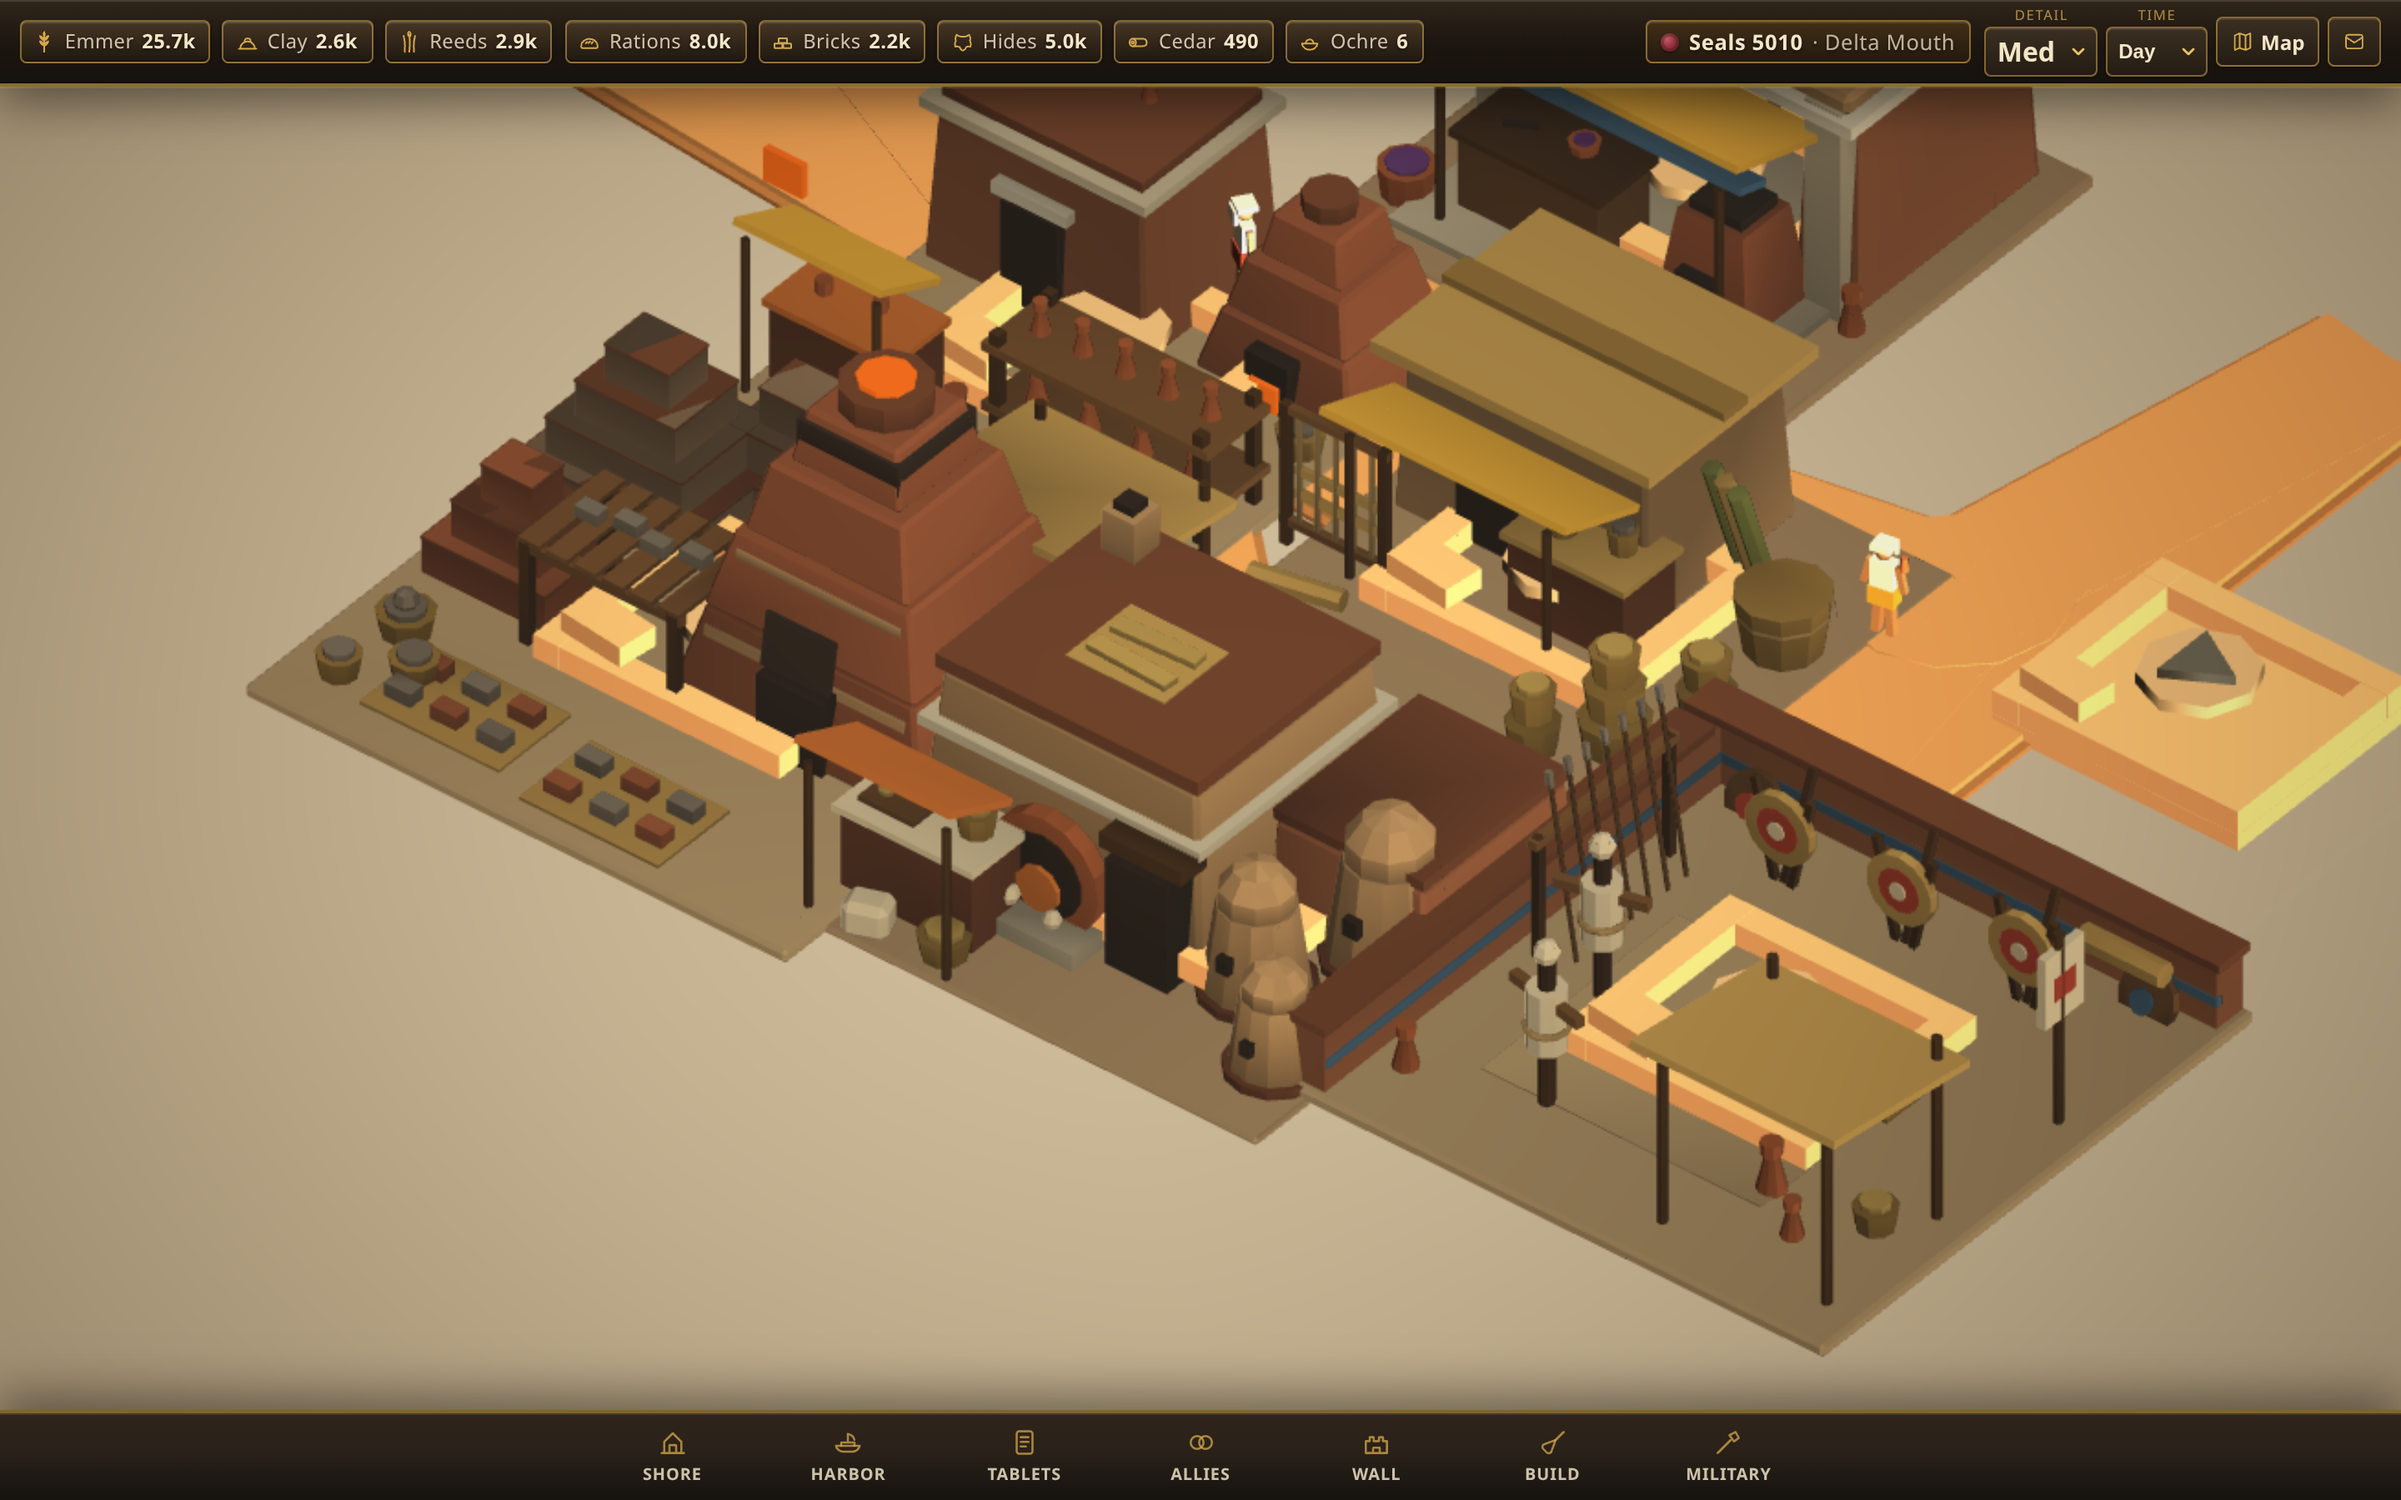
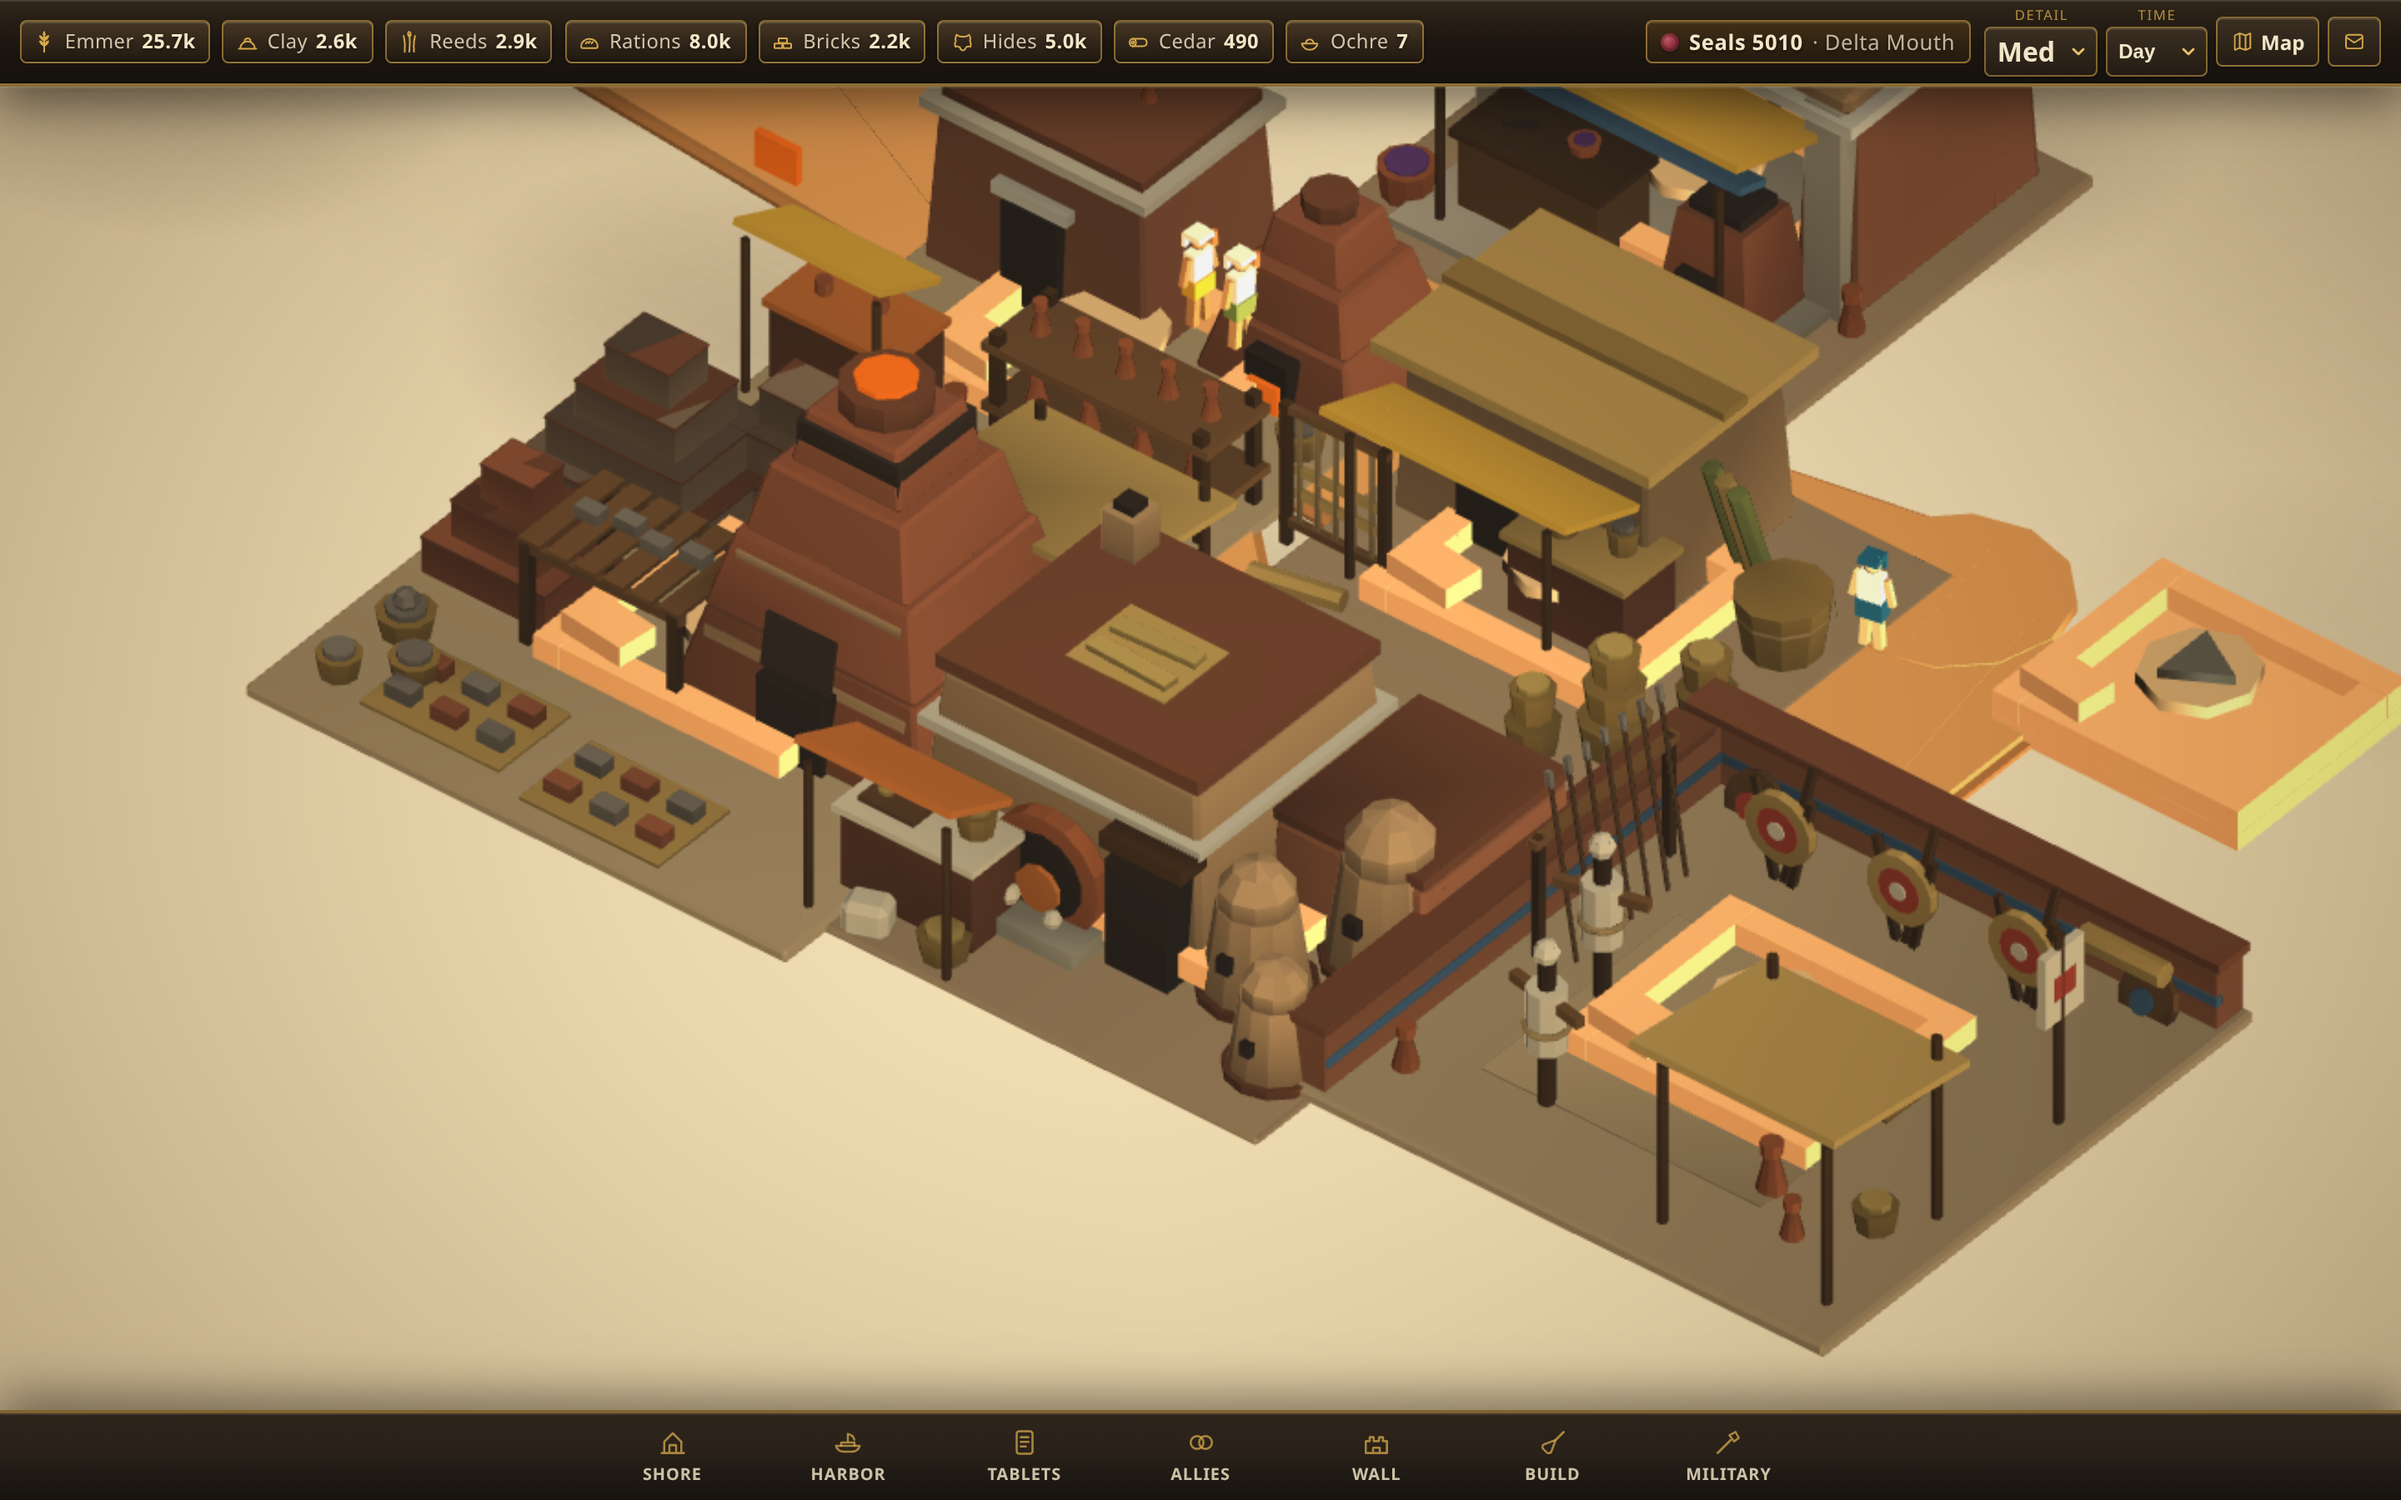
fix(overhaul-r8): painted AO carpet + occupancy-gated roads + inspect scrim
World-space AO carpet paints soft contact shading under every building/pad
and packed-earth wear at hubs, repainted on building changes (darken
composite so overlaps never stack). Road spurs to EMPTY pads removed and
roads rebuild on occupancy change (the stray orange stubs). Mudflat/sandbar
lobes fully deleted; bank strip retinted to sand family; day sun lower for
readable shadows; inspect modal gets a scrim + closes the panel beneath;
panel fold fade 64px.

diff --git a/apps/client/src/render/scene.ts b/apps/client/src/render/scene.ts
@@ -550,6 +550,92 @@ export class SettlementView {
     }
   }
 
+  private aoCarpet: Mesh | null = null;
+  private aoCarpetTex: DynamicTexture | null = null;
+
+  /**
+   * Painted ground-contact shading — the "baked AO" the whole style needs.
+   * A single non-tiled world-space texture over the settlement field gets a
+   * soft dark ellipse under every building/pad/palm + packed-earth wear at
+   * hubs. Repainted whenever the building set changes.
+   */
+  private buildAOCarpet() {
+    const W = 46, H = 38, CX = -2.5, CZ = 3;
+    if (this.aoCarpet?.isDisposed()) {
+      this.aoCarpet = null;
+      this.aoCarpetTex = null;
+    }
+    if (!this.aoCarpet) {
+      this.aoCarpet = MeshBuilder.CreateGround(
+        "aoCarpet",
+        { width: W, height: H },
+        this.scene
+      );
+      this.aoCarpet.position.set(CX, 0.02, CZ);
+      this.aoCarpet.isPickable = false;
+      const tex = new DynamicTexture("aoCarpetTex", 1024, this.scene, true);
+      tex.hasAlpha = true;
+      const mat = new StandardMaterial("aoCarpetMat", this.scene);
+      mat.diffuseTexture = tex;
+      mat.useAlphaFromDiffuseTexture = true;
+      mat.specularColor = Color3.Black();
+      mat.emissiveColor = Color3.Black();
+      mat.backFaceCulling = true;
+      this.aoCarpet.material = mat;
+      this.aoCarpet.parent = this.envRoot ?? this.root;
+      this.aoCarpetTex = tex;
+    }
+    const tex = this.aoCarpetTex;
+    if (!tex) return;
+    const ctx = tex.getContext() as CanvasRenderingContext2D;
+    const S = 1024;
+    ctx.clearRect(0, 0, S, S);
+    const toU = (wx: number) => ((wx - (CX - W / 2)) / W) * S;
+    const toV = (wz: number) => S - ((wz - (CZ - H / 2)) / H) * S;
+    ctx.globalCompositeOperation = "darken";
+    const blob = (wx: number, wz: number, r: number, a: number) => {
+      const g = ctx.createRadialGradient(
+        toU(wx), toV(wz), 0, toU(wx), toV(wz), (r / W) * S
+      );
+      g.addColorStop(0, `rgba(52,36,20,${a})`);
+      g.addColorStop(0.7, `rgba(52,36,20,${a * 0.45})`);
+      g.addColorStop(1, "rgba(52,36,20,0)");
+      ctx.fillStyle = g;
+      ctx.beginPath();
+      ctx.arc(toU(wx), toV(wz), (r / W) * S, 0, Math.PI * 2);
+      ctx.fill();
+    };
+    // packed-earth wear around hubs (warm, wide, faint)
+    for (const n0 of PATH_NODES.filter((pn) => pn.id.startsWith("hub-"))) {
+      const n = transformPlotPos(n0.x, n0.z, this.mapArch.layout);
+      const g = ctx.createRadialGradient(
+        toU(n.x), toV(n.z), 0, toU(n.x), toV(n.z), (3.4 / W) * S
+      );
+      g.addColorStop(0, "rgba(122,92,58,0.1)");
+      g.addColorStop(1, "rgba(122,92,58,0)");
+      ctx.fillStyle = g;
+      ctx.beginPath();
+      ctx.arc(toU(n.x), toV(n.z), (3.4 / W) * S, 0, Math.PI * 2);
+      ctx.fill();
+    }
+    // building contact shadows
+    const st = this.lastSettlement;
+    if (st) {
+      for (const b of st.buildings) {
+        if (!b.plotId) continue;
+        const w = this.plotWorldArch(b.plotId);
+        blob(w.x, w.z, 1.8, 0.2);
+      }
+    }
+    // pads (fainter)
+    for (const def of SETTLEMENT_PLOTS) {
+      if (def.starterKind) continue;
+      const posP = this.worldPos(def);
+      blob(posP.x, posP.z, 1.3, 0.05);
+    }
+    tex.update(false);
+  }
+
   /** Palms, scrub, rock outcrops, crescent dunes — the desert is a place,
    *  not a tan void. All opaque, all outside the gameplay rect. */
   private buildNaturalFeatures() {
@@ -931,41 +1017,6 @@ export class SettlementView {
     wet.isPickable = false;
     wet.receiveShadows = true;
 
-    // Mudflat lobes — the shoreline is a river edge, not a ruler
-    const flatMat = new StandardMaterial("mudflatMat", this.scene);
-    flatMat.diffuseColor = hexToColor3("#8A7048");
-    flatMat.specularColor = hexToColor3("#4A7080").scale(0.18);
-    flatMat.specularPower = 24;
-    for (const [lz, lw, ld] of [
-      [9.6, 2.6, 1.4], [2.4, 1.7, 0.9],
-    ] as const) {
-      const lobe = MeshBuilder.CreateSphere(
-        `mudflat-${lz}`,
-        { diameter: 1, segments: 10 },
-        this.scene
-      );
-      lobe.scaling.set(ld * 0.8, 0.055, lw / 2.2);
-      lobe.position.set(-10.35, 0.04, lz);
-      lobe.material = flatMat;
-      lobe.parent = this.envRoot;
-      lobe.isPickable = false;
-      lobe.receiveShadows = true;
-      // sandbar highlight rim on the water side
-      const bar = MeshBuilder.CreateSphere(
-        `sandbar-${lz}`,
-        { diameter: 1, segments: 8 },
-        this.scene
-      );
-      bar.scaling.set(ld * 0.5, 0.035, lw * 0.28);
-      bar.position.set(-10.8, 0.028, lz + 0.3);
-      const barMat = new StandardMaterial(`sandbarMat-${lz}`, this.scene);
-      barMat.diffuseColor = hexToColor3("#A38B62"); // wet sand — pale read as glowing pancakes
-      barMat.specularColor = Color3.Black();
-      bar.material = barMat;
-      bar.parent = this.envRoot;
-      bar.isPickable = false;
-    }
-
     // Dark silt break at waterline (Materials: wet clay grammar)
     const silt = MeshBuilder.CreateBox(
       "siltBreak",
@@ -1108,7 +1159,7 @@ export class SettlementView {
     );
     bank.position.set(-10.05, 0.05, 1.5);
     const bmat = new StandardMaterial("bankMat", this.scene);
-    bmat.diffuseColor = hexToColor3("#7A6848");
+    bmat.diffuseColor = hexToColor3("#B99C74");
     bmat.specularColor = Color3.Black();
     bank.material = bmat;
     bank.parent = this.envRoot;
@@ -1702,7 +1753,11 @@ export class SettlementView {
       this.buildFixedPads();
       this.buildRoads(this.roadTier);
     }
+    const occBefore = [...this.occupied].sort().join(",");
     this.syncPads(settlement);
+    if ([...this.occupied].sort().join(",") !== occBefore) {
+      this.buildRoads(this.roadTier);
+    }
     this.syncRoads(settlement.greatHouseLevel);
     const seen = new Set<string>();
     for (const b of settlement.buildings) {
@@ -1727,6 +1782,7 @@ export class SettlementView {
     }
     this.syncWorkers(settlement);
     this.syncNightWindows(settlement);
+    this.buildAOCarpet();
     this.updateSelectRing();
   }
 
@@ -1856,6 +1912,9 @@ export class SettlementView {
       const a0 = getPathNode(aId);
       const b0 = getPathNode(bId);
       if (!a0 || !b0) continue;
+      // No road spurs to empty pads — dead-end stubs read as stray decals
+      const spurPlot = a0.plotId ?? b0.plotId;
+      if (spurPlot && !this.occupied.has(spurPlot)) continue;
       const a = transformPlotPos(a0.x, a0.z, layout);
       const b = transformPlotPos(b0.x, b0.z, layout);
       const dx = b.x - a.x;

diff --git a/apps/client/src/inspectPopup.ts b/apps/client/src/inspectPopup.ts
@@ -54,6 +54,21 @@ function costHtml(
   return parts.join(" · ") || "—";
 }
 
+
+function ensureScrim(root: HTMLElement) {
+  let scrim = document.getElementById("popup-scrim");
+  if (!scrim) {
+    scrim = document.createElement("div");
+    scrim.id = "popup-scrim";
+    scrim.className = "popup-scrim";
+    root.parentElement?.insertBefore(scrim, root);
+  }
+  (scrim as HTMLElement).hidden = false;
+  // The modal owns the screen — hide the menu popup underneath
+  const menu = document.getElementById("menu-popup");
+  if (menu) (menu as HTMLElement).hidden = true;
+}
+
 export function renderBuildingPopup(
   root: HTMLElement,
   state: PublicSnapshot,
@@ -65,6 +80,7 @@ export function renderBuildingPopup(
     root.hidden = true;
     return;
   }
+  ensureScrim(root);
   root.hidden = false;
   root.classList.add("popup-open");
 
@@ -295,6 +311,8 @@ export function hidePopup(root: HTMLElement) {
   root.hidden = true;
   root.classList.remove("popup-open");
   root.innerHTML = "";
+  const scrim = document.getElementById("popup-scrim");
+  if (scrim) (scrim as HTMLElement).hidden = true;
 }
 
 /** Generic info + actions popup (build catalog, map sites, barges, etc.). */
@@ -318,6 +336,7 @@ export function renderGenericPopup(
     onClose: () => void;
   }
 ) {
+  ensureScrim(root);
   root.hidden = false;
   root.classList.add("popup-open");
   const glyph = opts.glyphName

diff --git a/apps/client/src/styles.css b/apps/client/src/styles.css
@@ -902,7 +902,7 @@ html.dark button.btn-locked svg {
   left: 1px;
   right: 1px;
   bottom: 0;
-  height: 48px;
+  height: 64px;
   border-radius: 0 0 var(--radius-lg) var(--radius-lg);
   background: linear-gradient(
     180deg,
@@ -1427,7 +1427,7 @@ html.dark .chat-search-wrap svg {
 
 .chat-empty svg {
   width: 64px;
-  height: 48px;
+  height: 64px;
   color: var(--gold-deep);
   opacity: 0.65;
 }
@@ -3300,4 +3300,12 @@ html.dark .goals-ring {
 }
 .chat-md em {
   font-style: italic;
+}
+
+/* Inspect modal scrim — panels must never ghost through behind it */
+.popup-scrim {
+  position: fixed;
+  inset: 0;
+  background: rgba(16, 11, 6, 0.42);
+  z-index: 29;
 }

diff --git a/apps/client/src/render/atmosphere.ts b/apps/client/src/render/atmosphere.ts
@@ -108,7 +108,7 @@ export class Atmosphere {
     this.sun.intensity = 1.9 - n * 1.0;
     // Sun path: high warm day key -> long low western dusk -> faint moon.
     // Judges: "dusk is the day shot with an orange tint" — direction must move.
-    const dayDir = new Vector3(-0.72, -0.46, 0.4);
+    const dayDir = new Vector3(-0.74, -0.38, 0.4);
     const duskDir = new Vector3(-0.97, -0.2, 0.1);
     const nightDir = new Vector3(-0.45, -0.5, 0.3);
     const dir =
